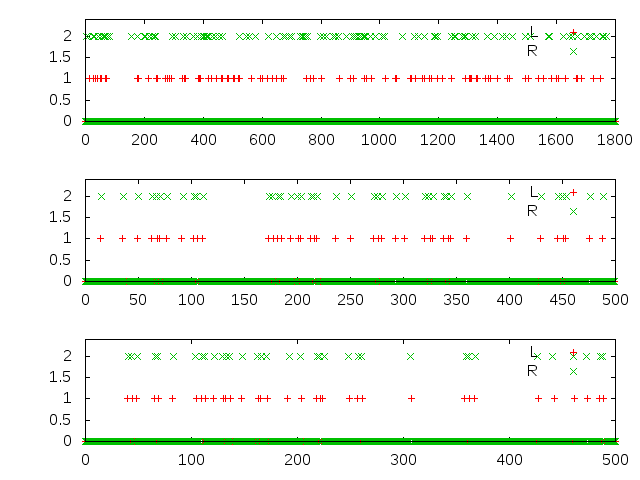
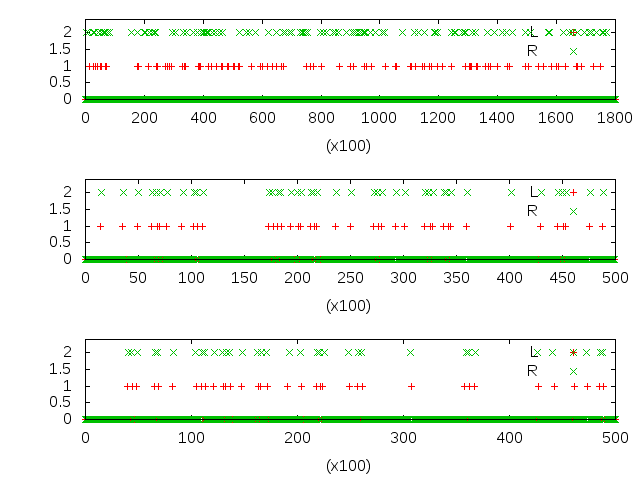
all

diff --git a/c/pole/0.5.5-plot/gnuplot.c b/c/pole/0.5.5-plot/gnuplot.c
@@ -62,6 +62,7 @@ void plot(int col) {
 	        fprintf(gp, "set autoscale\n");
 
 	// all sampled
+	fprintf(gp, "set xlabel \"(x100)\"\n");
        	fprintf(gp, "plot \"%s\" every %d using %d title '%s' %s\n", fname, sample_period, col, colstr, type);
 	if(col == 1) 
        		fprintf(gp, "\"%s\" every %d using ($2 * 2) title 'R'\n", fname, sample_period);
